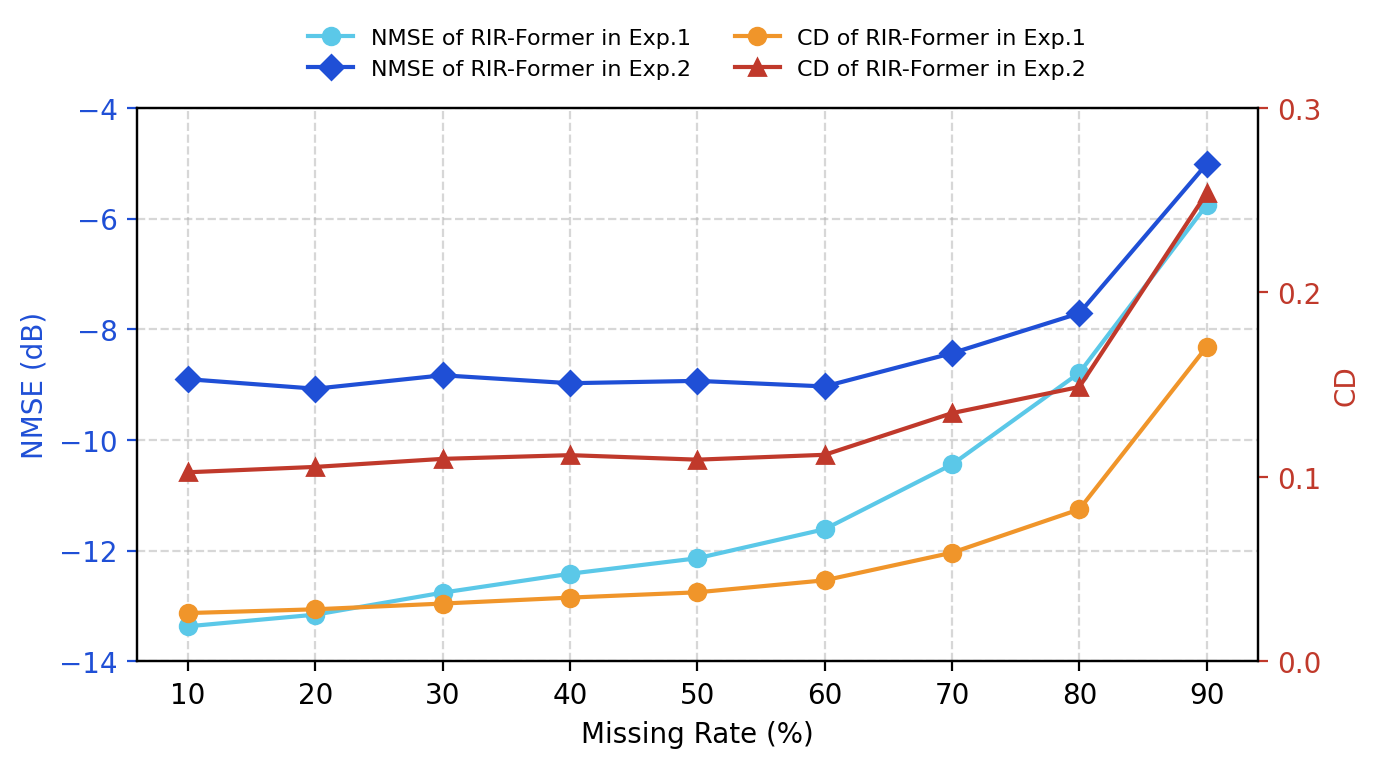
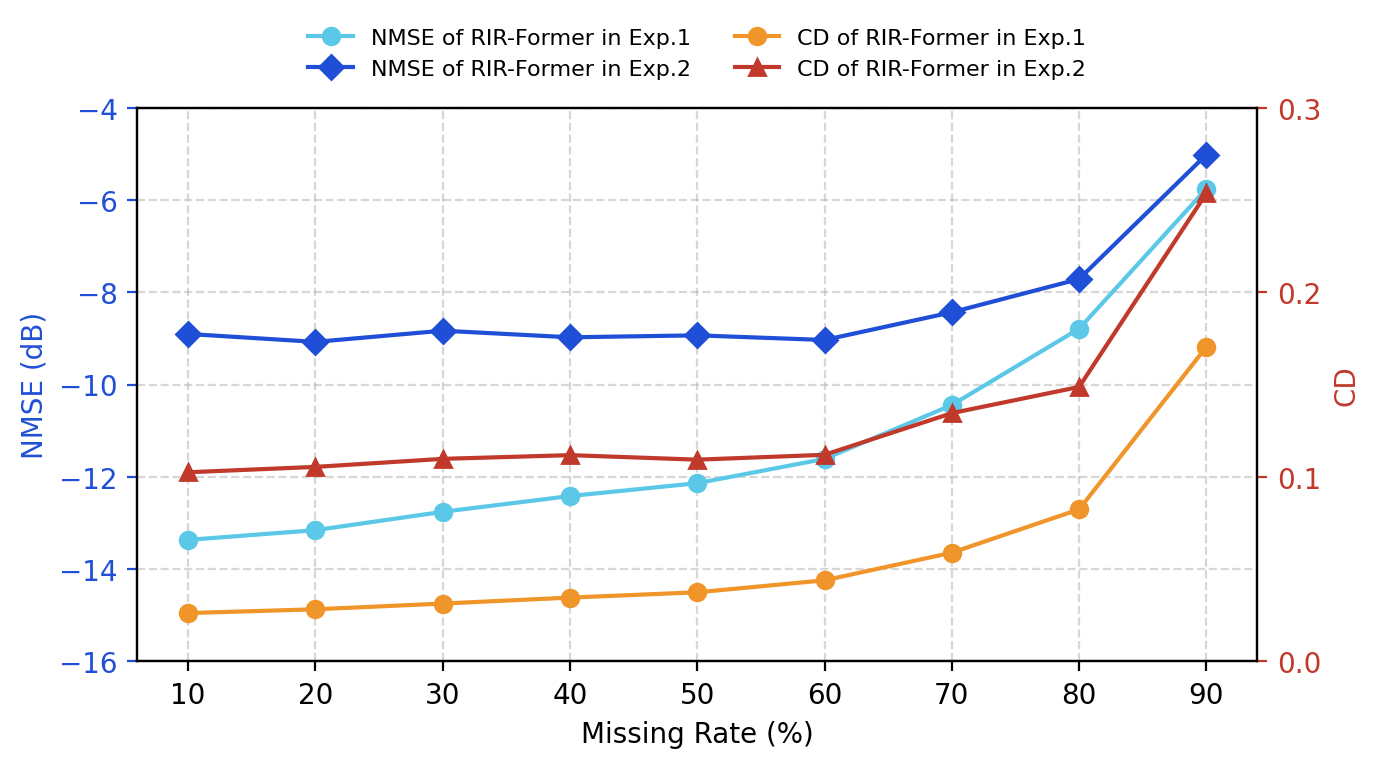
update readme with new results

diff --git a/README.md b/README.md
@@ -60,18 +60,22 @@ exactly rather than a guess at the paper's description.
 
 Metrics are averaged over `n_samples` held-out rooms per missing rate, following Eq. (11). Full sweeps are in [`exp1.csv`](exp1.csv) and [`exp2.csv`](exp2.csv). Both experiments in the paper (Tables 1–2) are reported at a **fixed 70% missing rate**, so comparisons below use that same row from each CSV.
 
+Two optional training improvements are available on top of the paper-matching baseline: cosine LR annealing (`--lr_scheduler`) and Strategy-2 geometric attention bias (`--geo_attn_bias`). Both are off by default to keep the baseline paper-faithful.
+
 ### Comparison at the paper's 70%-missing-rate operating point
 
-| | NMSE (dB) — Paper | NMSE (dB) — Ours | CD — Paper | CD — Ours |
-|---|---|---|---|---|
-| Experiment 1 | -10.440 | -10.442 | 0.051 | 0.059 |
-| Experiment 2 | -8.755 | -8.433 | 0.078 | 0.135 |
+| | NMSE (dB) — Paper | NMSE (dB) — Ours | NMSE (dB) — Ours (+LR+Geo) | CD — Paper | CD — Ours | CD — Ours (+LR+Geo) |
+|---|---|---|---|---|---|---|
+| Experiment 1 | -10.440 | -10.442 | **-11.016** | **0.051** | 0.059 | 0.055 |
+| Experiment 2 | -8.755 | -8.433 | **-9.075** | **0.078** | 0.135 | 0.131 |
 
-Experiment 1 matches the paper almost exactly on both metrics. Experiment 2 matches (and slightly beats) the paper's NMSE, but CD is meaningfully higher — reconstructions track the RIR's energy/magnitude well but deviate more in waveform shape under the harder grid-free, random-source setting.
+Adding LR annealing + geometric attention bias improves NMSE noticeably in both experiments (~0.6 dB on Exp 1, ~0.6 dB on Exp 2), pushing both past the paper's NMSE. CD improves too relative to the baseline reimplementation, but doesn't fully close the gap to the paper — Exp 2 in particular still trails on waveform-shape fidelity, though less so than before.
 
-Both experiments degrade sharply once missing rate exceeds ~70%, as fewer observed microphones leave the transformer with less geometric context to interpolate from. Inference time stays essentially flat (~3–4 ms/sample) across missing rates, since it's a single feed-forward pass over a fixed number of tokens; this isn't directly comparable to the paper's reported 0.002 s, which likely reflects different hardware/batching.
+Both experiments still degrade sharply once missing rate exceeds ~70%, and inference time remains flat (~3.5–4 ms/sample) regardless of these training changes, since they only affect optimization/architecture, not the feed-forward cost.
 
 ![NMSE and CD vs missing rate](figures/nmse_cd_vs_missing_rate.png)
+
+![NMSE and CD vs missing rate with LR annealing + geometric attention bias](figures/nmse_cd_vs_missing_rate_geo_lr.png)
 
 ## Installation
 
